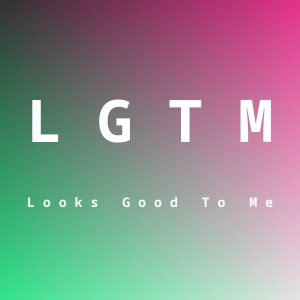
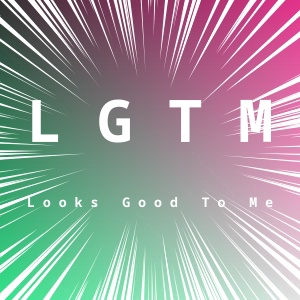
update testdata

diff --git a/cmd/lgtm/main.go b/cmd/lgtm/main.go
@@ -31,6 +31,12 @@ You can customize both using the --text and --sub-text flags.`,
 		currentInput := inputPath
 		tempOutput := ""
 
+		// テキスト色を決定
+		textColor := lgtm.TextColorWhite
+		if color == "black" {
+			textColor = lgtm.TextColorBlack
+		}
+
 		// 集中線を先に描画（指定されている場合）
 		if concentrationLines {
 			if outputPath == "" {
@@ -39,6 +45,10 @@ You can customize both using the --text and --sub-text flags.`,
 				tempOutput = outputPath + ".tmp.jpg"
 			}
 			d := lgtm.NewConcentrationLinesDrawer(currentInput, tempOutput)
+			// 集中線の色をテキスト色と同じに設定
+			if drawer, ok := d.(*lgtm.ConcentrationLinesDrawer); ok {
+				drawer.SetLineColor(textColor.Gray16())
+			}
 			if err := d.Draw(); err != nil {
 				log.Fatal(err)
 			}
@@ -59,11 +69,6 @@ You can customize both using the --text and --sub-text flags.`,
 		}
 
 		// テキストを描画（デフォルト動作または集中線の後に描画）
-		textColor := lgtm.TextColorWhite
-		if color == "black" {
-			textColor = lgtm.TextColorBlack
-		}
-
 		mainText := lgtm.DefaultMainText
 		subText := lgtm.DefaultSubText
 

diff --git a/concentration_drawer.go b/concentration_drawer.go
@@ -33,6 +33,10 @@ func NewConcentrationLinesDrawer(inputPath, outputPath string) Drawer {
 	}
 }
 
+func (c *ConcentrationLinesDrawer) SetLineColor(clr color.Color) {
+	c.LineColor = clr
+}
+
 func (c *ConcentrationLinesDrawer) Draw() error {
 	ext, err := c.extension(c.InputPath)
 	if err != nil {
